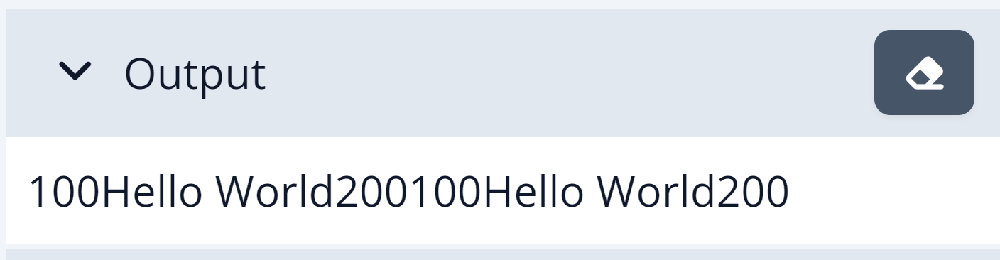
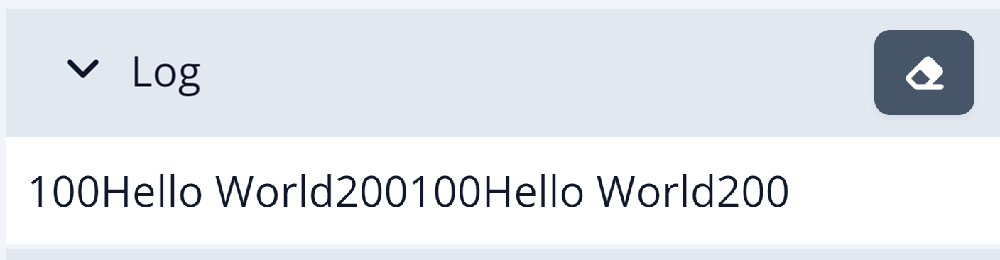
Update Console Log window image

Changed region(s): [[0.062, 0.2154, 0.279, 0.3692]]

diff --git a/software/due-script/due-script.md b/software/due-script/due-script.md
@@ -84,7 +84,7 @@ Log(x,"Hello World", x+x)
 
 ![Log](../images/log-output.png)
 
-`Print()` and `PrintLn()` are identical to `Log()` and `LogLn()` except the output goes to the screen instead of console output.
+`Print()` and `PrintLn()` are identical to `Log()` and `LogLn()` except the output goes to the screen instead of console log window.
 
 ```basic
 x=100
